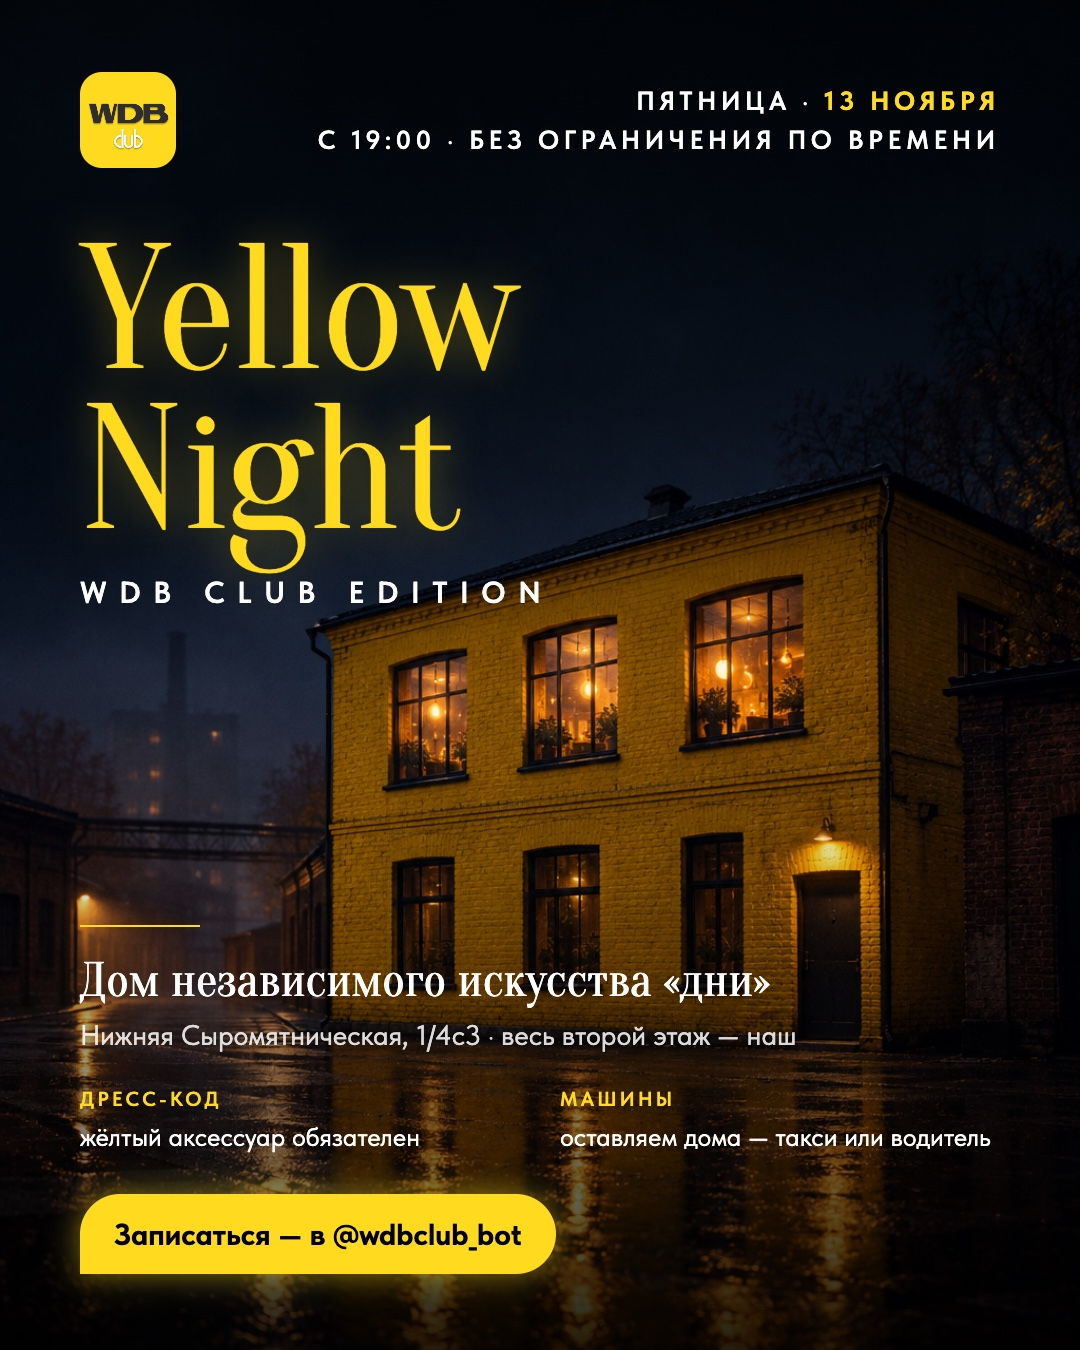
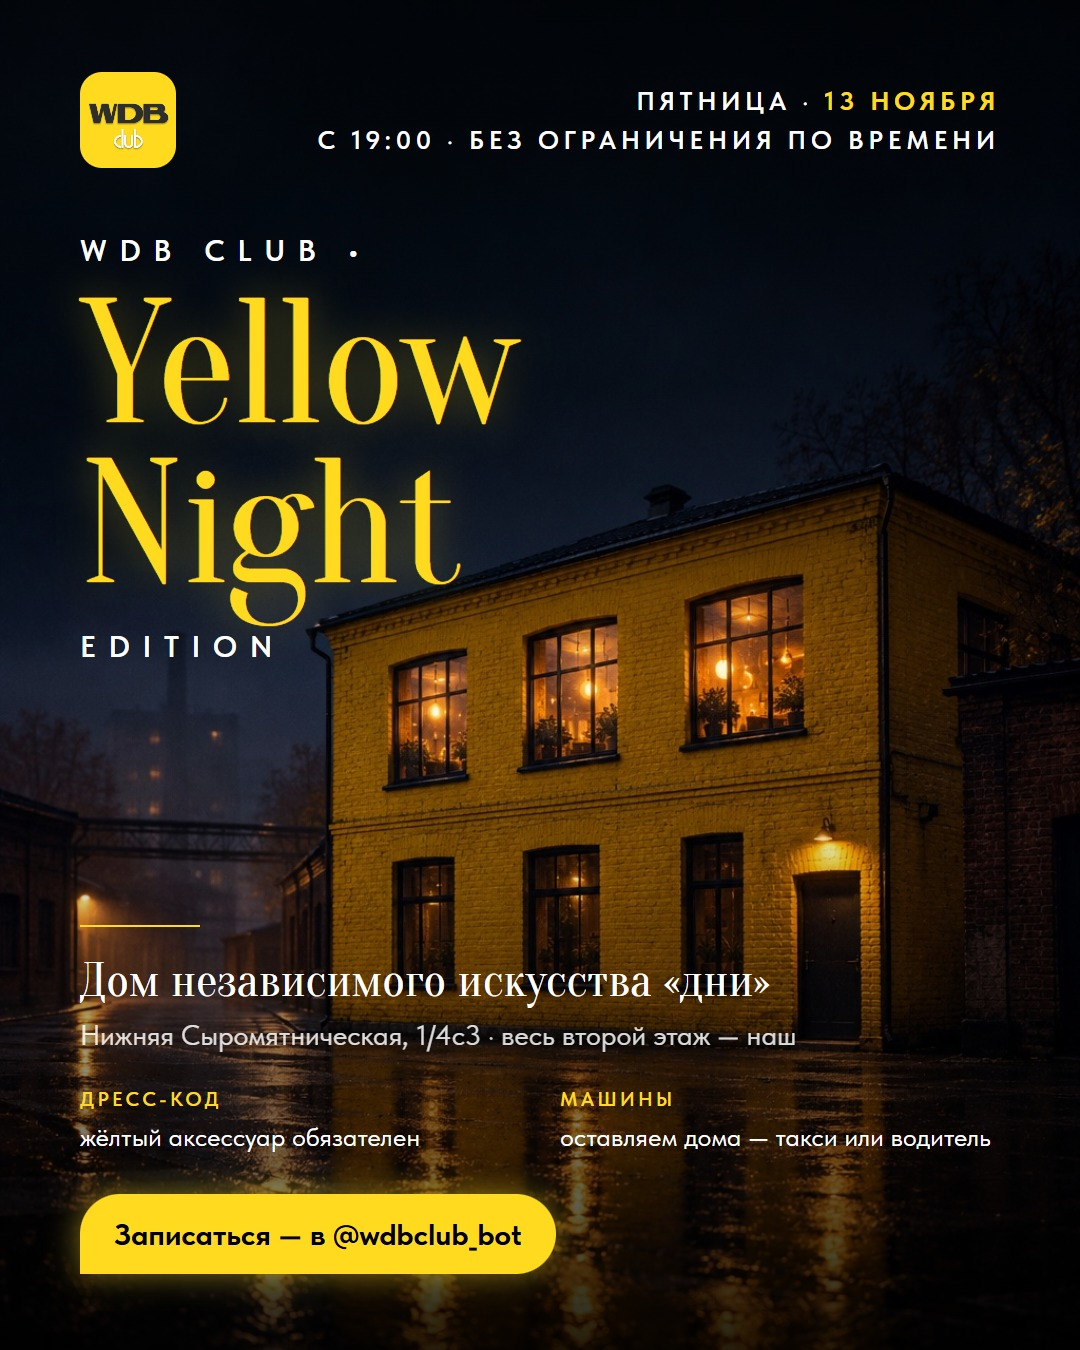
#19: WDB CLUB заглавными, «клуб Mercedes-Benz №1 в России», событие «WDB CLUB • Yellow Night Edition»
Название клуба в приложении, макетах, ДС и документах — WDB CLUB; событие в events.json
и тестах переименовано; афиша пересобрана с новым названием.

Claude-Session: https://claude.ai/code/session_01FmgiMqwgaGU37GHTqkkKdf

diff --git a/design-system.html b/design-system.html
@@ -3,7 +3,7 @@
 <head>
 <meta charset="utf-8">
 <meta name="viewport" content="width=device-width, initial-scale=1">
-<title>WDB Club — дизайн-система</title>
+<title>WDB CLUB — дизайн-система</title>
 <link rel="stylesheet" href="ds/fonts.css">
 <link rel="stylesheet" href="ds/tokens.css">
 <link rel="stylesheet" href="ds/components.css">
@@ -58,11 +58,11 @@
   <div class="dsp-hero">
     <div>
       <span class="rubric">Мини-приложение · дизайн-система · #1</span>
-      <h1>WDB Club</h1>
+      <h1>WDB CLUB</h1>
       <p class="dsp-p">Светлая система в духе сайта клуба и Mercedes-Benz Community: узкая антиква в заголовках и цифрах, гротеск сайта в тексте, тонкие линии вместо плашек, жёлтый клуба как сигнал, а не фон. Всё на этой странице отрисовано теми же файлами, что и экраны: <code>ds/fonts.css</code>, <code>ds/tokens.css</code>, <code>ds/components.css</code>, <code>ds/icons.svg</code>.</p>
       <p class="dsp-p">«Где используется» — номера экранов из макетов первого этапа: <a class="link" href="mockups/stage-1.html">mockups/stage-1.html</a> (S1–S16).</p>
     </div>
-    <span class="logo-tile" aria-label="WDB Club"></span>
+    <span class="logo-tile" aria-label="WDB CLUB"></span>
   </div>
 
   <div class="dsp-principles">
@@ -234,7 +234,7 @@ C.push(['Кнопки и ссылки', '<code>.btn</code> — основное 
 C.push(['Номерной знак', '<code>.plate</code>, <code>.plate__n</code>, <code>.plate__r</code> — регион отдельно, как на настоящем знаке. S9, S14.',
   `<span class="plate"><span class="plate__n">А 001 АА</span><span class="plate__r">777</span></span>`]);
 C.push(['Карточка машины', '<code>.car-card</code> — коллекционная карточка: марка и год, владелец в бейдже, модель антиквой, фото со скосом, характеристики <code>.spec</code>. S14; так машину видят участники.',
-  `<div class="car-card"><div class="car-card__in"><div class="car-card__top"><span><b>Mercedes-Benz</b> <span style="color:var(--ink-2)">| 2001</span></span><span class="car-card__badge">Иван Петров</span></div><div class="car-card__rule"></div><div class="car-card__model t-display">E 55 AMG</div><div class="car-card__sub">серебристый</div><div class="car-card__photo" style="background-image:url(mockups/img/car-w210.jpg)"></div><div class="car-card__specs"><div class="spec">${ic('cal')}<span class="t-label">Год выпуска</span><span class="spec__v">2001</span></div><div class="spec">${ic('plate')}<span class="t-label">Госномер</span><span class="spec__v"><span class="plate"><span class="plate__n">А 001 АА</span><span class="plate__r">777</span></span></span></div></div><div class="car-card__foot"><span class="t-label">WDB Club</span><span class="t-label">№ 1 из 2</span></div></div></div>`]);
+  `<div class="car-card"><div class="car-card__in"><div class="car-card__top"><span><b>Mercedes-Benz</b> <span style="color:var(--ink-2)">| 2001</span></span><span class="car-card__badge">Иван Петров</span></div><div class="car-card__rule"></div><div class="car-card__model t-display">E 55 AMG</div><div class="car-card__sub">серебристый</div><div class="car-card__photo" style="background-image:url(mockups/img/car-w210.jpg)"></div><div class="car-card__specs"><div class="spec">${ic('cal')}<span class="t-label">Год выпуска</span><span class="spec__v">2001</span></div><div class="spec">${ic('plate')}<span class="t-label">Госномер</span><span class="spec__v"><span class="plate"><span class="plate__n">А 001 АА</span><span class="plate__r">777</span></span></span></div></div><div class="car-card__foot"><span class="t-label">WDB CLUB</span><span class="t-label">№ 1 из 2</span></div></div></div>`]);
 C.push(['Машины в профиле', '<code>.car-strip</code> — лента с прокруткой, <code>.car-tile</code> — превью, <code>.car-tile--add</code> — добавить. S12, S13.',
   `<div class="car-strip" style="margin:0;padding:4px 0 16px"><button class="car-tile"><div class="car-tile__photo" style="background-image:url(mockups/img/car-amg-gt.jpg)"></div><div class="car-tile__body"><div class="car-tile__model">AMG GT C</div><div class="t-caption">Mercedes-AMG · 2019</div></div></button><button class="car-tile car-tile--add">${ic('plus')}<span class="t-label">Добавить</span></button></div>`]);
 C.push(['Выбор машины', '<code>.car-opt</code> с <code>.radio</code>; выбранная — <code>.is-on</code>. Шторка записи S4.',

diff --git a/app/main.js b/app/main.js
@@ -1,4 +1,4 @@
-// Мини-апп WDB Club (#2, сервер — #8): навигация, действия, Telegram.
+// Мини-апп WDB CLUB (#2, сервер — #8): навигация, действия, Telegram.
 // Экраны — app/views.js, правила — app/logic.js, данные — с сервера через app/api.js (docs/server.md).
 import { defaultCarId, validateCar, ics, myStatus, upcoming, BRAND_DEFAULT } from './logic.js';
 import { EVENTS, PARTNERS, setEvents, img } from './data.js';
@@ -86,7 +86,7 @@ function tab(t) { stack = [[t]]; form = null; render(true); haptic(); }
 
 function render(scrollTop) {
   if (phase !== 'ready') {
-    app.innerHTML = `<div class="appbar"><span></span><span class="logo-tile" role="img" aria-label="WDB Club"></span></div><main class="grow" data-view="${phase}">${phase === 'no-tg' ? V.viewOpenInTelegram() : phase === 'error' ? V.viewLoadError() : V.viewLoading()}</main>`;
+    app.innerHTML = `<div class="appbar"><span></span><span class="logo-tile" role="img" aria-label="WDB CLUB"></span></div><main class="grow" data-view="${phase}">${phase === 'no-tg' ? V.viewOpenInTelegram() : phase === 'error' ? V.viewLoadError() : V.viewLoading()}</main>`;
     if (tg) tg.BackButton.hide();
     return;
   }
@@ -103,7 +103,7 @@ function render(scrollTop) {
   const bl = backLabel();
   // кнопка записи на карточке мероприятия закреплена над таб-баром (#14)
   const dock = view === 'event' ? V.eventDock(ctx(), arg) : '';
-  app.innerHTML = `<div class="appbar">${bl && !tg ? `<button class="appbar__back" data-act="back">${V.ic('left')}${V.esc(bl)}</button>` : '<span></span>'}<span class="logo-tile" role="img" aria-label="WDB Club"></span></div>
+  app.innerHTML = `<div class="appbar">${bl && !tg ? `<button class="appbar__back" data-act="back">${V.ic('left')}${V.esc(bl)}</button>` : '<span></span>'}<span class="logo-tile" role="img" aria-label="WDB CLUB"></span></div>
     <main class="grow" data-view="${view}">${html}</main>
     <div class="dock">${dock ? `<div>${dock}</div>` : ''}<nav class="tabbar"><button class="tab${root === 'events' ? ' is-on' : ''}" data-act="tab" data-tab="events">${V.ic('cal')}Мероприятия</button><button class="tab${root === 'profile' ? ' is-on' : ''}" data-act="tab" data-tab="profile">${V.ic('user')}Профиль</button></nav></div>`;
   if (tg) stack.length > 1 ? tg.BackButton.show() : tg.BackButton.hide();

diff --git a/app/views.js b/app/views.js
@@ -53,7 +53,7 @@ export function viewEvents({ state, today }) {
     <button class="cover" style="display:block;width:100%;margin-bottom:0${e.cover ? `;background-image:url('${esc(img(e.cover))}')` : ''}" data-act="open-event" data-id="${e.id}" aria-label="${esc(e.name)}"></button>
     ${evRow(e, `${dayLabel(e)} · ${e.place}`, null, 'events')}
     <div style="margin-top:var(--sp-16)">${ctaFor(e, state, today, true)}</div></div>`).join('');
-  return `<div class="screen"><span class="rubric">WDB Club · сезон ${today.getFullYear()}</span><h1 class="t-display" style="margin:10px 0 24px">Мероприятия</h1>
+  return `<div class="screen"><span class="rubric">WDB CLUB · сезон ${today.getFullYear()}</span><h1 class="t-display" style="margin:10px 0 24px">Мероприятия</h1>
     ${cards || '<div class="empty"><h2 class="t-title">Скоро анонс</h2><p class="t-caption">Новые мероприятия появятся здесь.</p></div>'}
   </div>`;
 }
@@ -205,7 +205,7 @@ export function viewCar({ state, me }, id) {
       <div class="spec">${ic('drop')}<span class="t-label">Цвет</span><span class="spec__v">${esc(c.color || '—')}</span></div>
       <div class="spec">${ic('plate')}<span class="t-label">Госномер</span><span class="spec__v">${plate(c.plate) || '—'}</span></div>
     </div>
-    <div class="car-card__foot"><span class="t-label">WDB Club</span><span class="t-label">№ ${k} из ${state.cars.length}</span></div>
+    <div class="car-card__foot"><span class="t-label">WDB CLUB</span><span class="t-label">№ ${k} из ${state.cars.length}</span></div>
   </div></div>
   <div class="actions"><button class="link" data-act="edit-car" data-id="${c.id}">Изменить</button><button class="link link--quiet" data-act="delete-car" data-id="${c.id}">Удалить</button></div></div>`;
 }

diff --git a/promo/yellow-night-poster.html b/promo/yellow-night-poster.html
@@ -15,6 +15,8 @@ body{background:#000}
 .rub b{color:var(--acc);font-weight:700}
 h1{font-family:Oranienbaum,serif;font-weight:400;font-size:178px;line-height:.9;color:var(--acc);margin-top:64px;letter-spacing:-.01em;text-shadow:0 0 40px rgba(255,218,31,.35)}
 .ed{font-weight:600;font-size:30px;letter-spacing:.42em;text-transform:uppercase;margin-top:22px}
+.ed--top{margin-top:64px}
+.ed--top+h1{margin-top:18px}
 .bot{margin-top:auto}
 .rule{height:2px;background:var(--acc);width:120px;margin-bottom:28px}
 .place{font-family:Oranienbaum,serif;font-size:48px;line-height:1.1}
@@ -27,8 +29,9 @@ h1{font-family:Oranienbaum,serif;font-weight:400;font-size:178px;line-height:.9;
 </style></head><body>
 <div class="p" id="poster"><div class="in">
  <div class="top"><div class="logo"></div><div class="rub">Пятница · <b>13 ноября</b><br>с 19:00 · без ограничения по времени</div></div>
+ <div class="ed ed--top">WDB CLUB •</div>
  <h1>Yellow<br>Night</h1>
- <div class="ed">WDB Club Edition</div>
+ <div class="ed">Edition</div>
  <div class="bot">
   <div class="rule"></div>
   <div class="place">Дом независимого искусства «дни»</div>

diff --git a/ds/fonts.css b/ds/fonts.css
@@ -1,4 +1,4 @@
-/* Шрифты WDB Club. Обе гарнитуры — SIL Open Font License 1.1, файлы лежат в ds/fonts/.
+/* Шрифты WDB CLUB. Обе гарнитуры — SIL Open Font License 1.1, файлы лежат в ds/fonts/.
    Oranienbaum (О. Поспелов, Ж. Лемонад) — узкая контрастная антиква: заголовки, модели машин, цифры.
    Tilda Sans (ParaType для Tilda) — гротеск сайта wdbclub.com: текст, подписи, кнопки. */
 @font-face {

diff --git a/ds/components.css b/ds/components.css
@@ -1,4 +1,4 @@
-/* WDB Club — компоненты дизайн-системы.
+/* WDB CLUB — компоненты дизайн-системы.
    Только то, что стоит на экранах первого этапа (mockups/stage-1.html). Цвета, шрифты,
    формы, отступы и тени — только через токены (tokens.css). Проверки — tests/ds.test.mjs:
    нет цветовых литералов, каждый класс отсюда используется на макетах. */

diff --git a/ds/tokens.css b/ds/tokens.css
@@ -1,4 +1,4 @@
-/* WDB Club — токены дизайн-системы.
+/* WDB CLUB — токены дизайн-системы.
    Источники: сайт клуба wdbclub.com (цвета, кнопка-«лепесток», свечение, Tilda Sans),
    Mercedes-Benz Community (узкая антиква, карточка машины, тонкие линии, воздух) и
    согласованные макеты первого этапа (mockups/stage-1.html).

diff --git a/mockups/flows.html b/mockups/flows.html
@@ -3,7 +3,7 @@
 <head>
 <meta charset="utf-8">
 <meta name="viewport" content="width=device-width, initial-scale=1">
-<title>WDB Club — сценарии первого этапа</title>
+<title>WDB CLUB — сценарии первого этапа</title>
 <link rel="stylesheet" href="../ds/fonts.css">
 <link rel="stylesheet" href="../ds/tokens.css">
 <link rel="stylesheet" href="../ds/components.css">

diff --git a/mockups/stage-1.html b/mockups/stage-1.html
@@ -3,7 +3,7 @@
 <head>
 <meta charset="utf-8">
 <meta name="viewport" content="width=device-width, initial-scale=1">
-<title>WDB Club — макеты первого этапа</title>
+<title>WDB CLUB — макеты первого этапа</title>
 <link rel="stylesheet" href="../ds/fonts.css">
 <link rel="stylesheet" href="../ds/tokens.css">
 <link rel="stylesheet" href="../ds/components.css">

diff --git a/index.html b/index.html
@@ -3,7 +3,7 @@
 <head>
 <meta charset="utf-8">
 <meta name="viewport" content="width=device-width, initial-scale=1, maximum-scale=1, viewport-fit=cover">
-<title>WDB Club</title>
+<title>WDB CLUB</title>
 <script src="https://telegram.org/js/telegram-web-app.js"></script>
 <link rel="stylesheet" href="ds/fonts.css">
 <link rel="stylesheet" href="ds/tokens.css">

diff --git a/promo/README.md b/promo/README.md
@@ -1,5 +1,5 @@
 # Промо-материалы
 
-- `yellow-night-poster.jpg` — афиша Yellow Night · WDB Edition, 13.11.2026 (#10), 1080×1350 для анонса в канале.
-  Фон `yellow-night-bg.jpg` сгенерирован ИИ (Figma AI, gpt-image-2.5-flare; файл «WDB Club — афиша Yellow Night» в Figma), текст — шрифты и цвета ДС.
+- `yellow-night-poster.jpg` — афиша WDB CLUB • Yellow Night Edition, 13.11.2026 (#10), 1080×1350 для анонса в канале.
+  Фон `yellow-night-bg.jpg` сгенерирован ИИ (Figma AI, gpt-image-2.5-flare; файл «WDB CLUB — афиша Yellow Night» в Figma), текст — шрифты и цвета ДС.
   Исходник вёрстки — `yellow-night-poster.html`; обложка в приложении — `app/img/event-yellow-night.jpg`: с #14 — кроп фото площадки от Ильи Грищенко (`yellow-night-venue-ilya.jpg`, решение владельца 10.11.2026).
